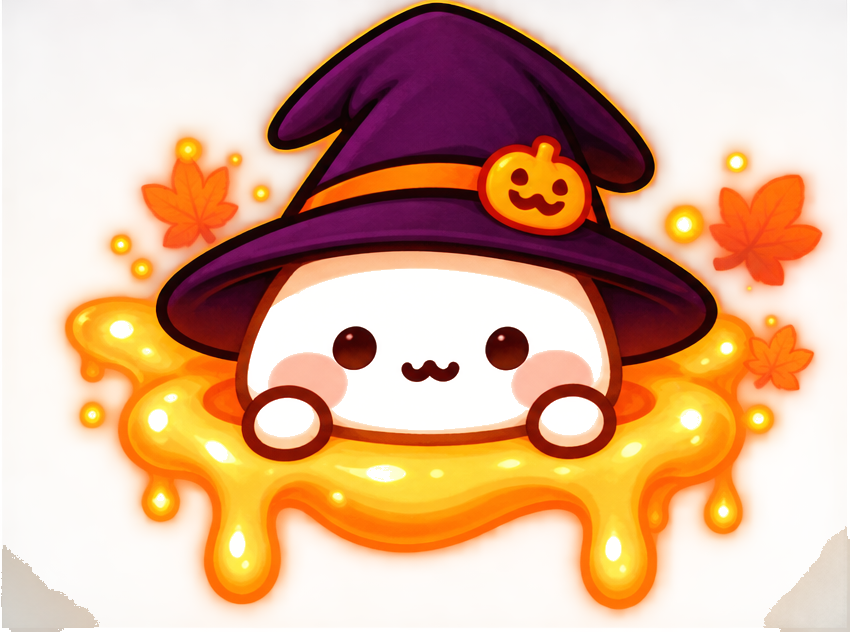
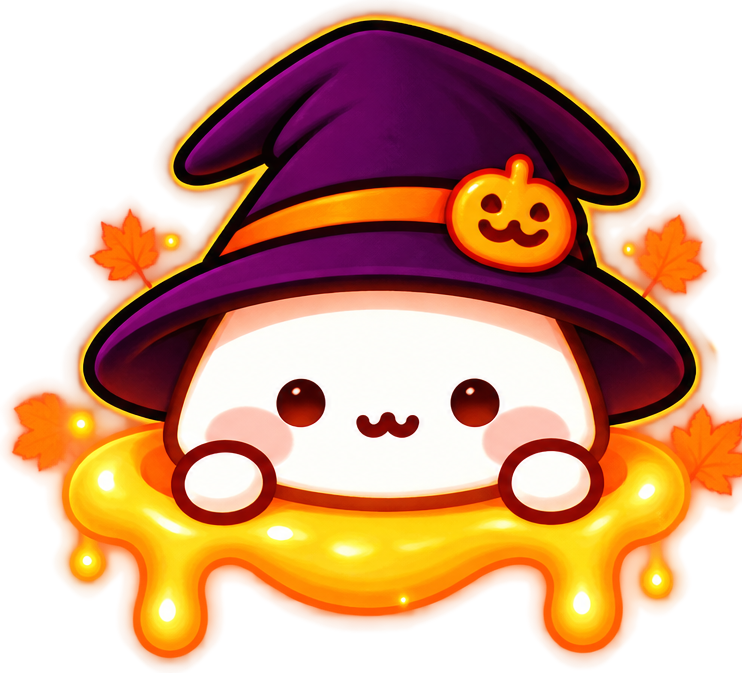
Halloween Home: ChatGPT's V6 fixed artwork, repositioned hero/streak, toned-down header. Branch only, not deployed.
Claude-Session: https://claude.ai/code/session_01YMLVrn6KTdhproNes7bh89

diff --git a/public/app.js b/public/app.js
@@ -1283,7 +1283,7 @@
         <button type="button" class="hq-ib gear" id="hhGear" aria-label="${esc(tr("Settings"))}"><svg viewBox="0 0 24 24" fill="none" stroke="currentColor" stroke-width="2" stroke-linecap="round" stroke-linejoin="round" aria-hidden="true"><circle cx="12" cy="12" r="3"/><path d="M19.4 15a1.7 1.7 0 0 0 .3 1.8l.1.1a2 2 0 1 1-2.8 2.8l-.1-.1a1.7 1.7 0 0 0-1.8-.3 1.7 1.7 0 0 0-1 1.5V21a2 2 0 1 1-4 0v-.1a1.7 1.7 0 0 0-1.1-1.5 1.7 1.7 0 0 0-1.8.3l-.1.1a2 2 0 1 1-2.8-2.8l.1-.1a1.7 1.7 0 0 0 .3-1.8 1.7 1.7 0 0 0-1.5-1H3a2 2 0 1 1 0-4h.1a1.7 1.7 0 0 0 1.5-1.1 1.7 1.7 0 0 0-.3-1.8l-.1-.1a2 2 0 1 1 2.8-2.8l.1.1a1.7 1.7 0 0 0 1.8.3H9a1.7 1.7 0 0 0 1-1.5V3a2 2 0 1 1 4 0v.1a1.7 1.7 0 0 0 1 1.5 1.7 1.7 0 0 0 1.8-.3l.1-.1a2 2 0 1 1 2.8 2.8l-.1.1a1.7 1.7 0 0 0-.3 1.8V9a1.7 1.7 0 0 0 1.5 1H21a2 2 0 1 1 0 4h-.1a1.7 1.7 0 0 0-1.5 1z"/></svg></button>
       </header>
       <section class="hq-card" aria-label="${esc(tr("This month's money"))}">
-        <img class="hq-witch" src="/hh-hero-v6.png?v=6" alt="">
+        <img class="hq-witch" src="/hh-hero-v6.png?v=8" alt="">
         <p class="hq-lbl">${esc(tr("Safe to spend"))}</p><p class="hq-context">${esc(lbl)}</p>
         <div class="hq-row">
           <div class="hq-amt ${c.left < 0 ? "neg" : ""}">${esc(w)}${cents ? `<small>.${esc(cents)}</small>` : ""}</div>
@@ -1298,7 +1298,7 @@
       </div>
       <div class="hq-h"><h2>${esc(tr("Coming up"))}</h2><button type="button" id="hhPlan">${esc(tr("See all"))} ›</button></div>
       <div class="hq-list">${items.length ? items.map(dueRow).join("") : `<div class="hq-empty"><span>${esc(RECUR.length ? tr("Nothing due soon") + " ♡" : tr("Add rent, bills and paydays once."))}</span><button type="button" id="hhAddBill">${esc(tr("Add"))}</button></div>`}</div>
-      <button type="button" class="hq-streak" id="hhStreak"><img src="/hh-streak-v6.png?v=6" alt="">${flame}<span class="hq-st"><b>${st === 1 ? esc(tr("1 day")) : st + " " + esc(tr("days"))} ${esc(tr("hop streak"))}</b><small>${esc(done ? tr("Keep it going!") : tr("Log today to hop"))} · ${esc(tr("Level"))} ${li.l}</small></span>${chev}</button>
+      <button type="button" class="hq-streak" id="hhStreak"><img src="/hh-streak-v6.png?v=8" alt="">${flame}<span class="hq-st"><b>${st === 1 ? esc(tr("1 day")) : st + " " + esc(tr("days"))} ${esc(tr("hop streak"))}</b><small>${esc(done ? tr("Keep it going!") : tr("Log today to hop"))} · ${esc(tr("Level"))} ${li.l}</small></span>${chev}</button>
       <div class="hq-h hq-latest-head"><h2>${esc(tr("Latest"))}</h2><button type="button" id="hhAll">${esc(tr("See all"))} ›</button></div>
       <div class="hq-list hq-latest-list">${recent.length ? recent.map(actRow).join("") : `<div class="hq-empty"><span>${esc(tr("Nothing yet. Tap + to add something."))}</span></div>`}</div>`;
     const q = (id) => root.querySelector("#" + id);

diff --git a/public/halloween.css b/public/halloween.css
@@ -499,7 +499,7 @@ html.hb-hh #hhHome .hq-latest-head{margin-top:20px}
    separate from live text/data. Standard Honeybun is untouched. */
 @media (max-width:500px){
   html.hb-hh #hhHome{max-width:390px!important;padding-top:calc(max(env(safe-area-inset-top,0px),var(--sat,0px)) + 4px)!important;padding-bottom:96px!important;background:linear-gradient(180deg,#130b19 0,#0b0710 100%)!important}
-  html.hb-hh #hhHome:before{content:""!important;display:block!important;position:absolute!important;z-index:0!important;left:0!important;right:0!important;top:0!important;height:188px!important;pointer-events:none!important;background:linear-gradient(180deg,rgba(13,7,18,.10),rgba(11,7,16,.72) 78%,#0b0710 100%),url('/hh-header-v6.webp?v=6') center top/100% 188px no-repeat!important;opacity:.95!important}
+  html.hb-hh #hhHome:before{content:""!important;display:block!important;position:absolute!important;z-index:0!important;left:0!important;right:0!important;top:0!important;height:188px!important;pointer-events:none!important;background:linear-gradient(180deg,rgba(13,7,18,.10),rgba(11,7,16,.72) 78%,#0b0710 100%),url('/hh-header-v6.webp?v=8') center 38%/cover no-repeat!important;opacity:.32!important}
   html.hb-hh #hhHome>*{position:relative;z-index:1}
   html.hb-hh #hhHome .hq-head{height:94px!important;margin:0 24px!important;padding-top:5px!important}
   html.hb-hh #hhHome .hq-brand h1{font-size:27px!important;line-height:30px!important}
@@ -555,3 +555,7 @@ html.hb-hh #hhHome .hq-latest-head{margin-top:20px}
   #hhHome .hh-bottom-nav { left:18px !important; right:18px !important; width:auto !important; bottom:10px !important; }
 }
 
+
+/* V6 fixed artwork: placement measured from the authoritative reference (390px wide) */
+html.hb-hh #hhHome .hq-witch{position:absolute!important;right:24px!important;top:-112px!important;bottom:auto!important;left:auto!important;width:164px!important;height:auto!important;max-height:none!important;object-fit:contain!important;z-index:6!important;filter:drop-shadow(0 6px 8px rgba(0,0,0,.45))!important}
+html.hb-hh #hhHome .hq-streak>img{position:absolute!important;left:4px!important;bottom:-4px!important;top:auto!important;height:86px!important;width:auto!important;max-height:none!important;max-width:none!important;object-fit:contain!important;filter:drop-shadow(0 4px 6px rgba(0,0,0,.4))!important}

diff --git a/public/sw.js b/public/sw.js
@@ -1,6 +1,6 @@
 // Honeybun service worker: makes the app open offline.
 // Pages and code are fetched fresh when online (so updates show right away) and served from cache when offline.
-const CACHE = "honeybun-v80";
+const CACHE = "honeybun-v82";
 const SHELL = ["/", "/witch-load.webp", "/icon-192-halloween.png", "/index.html", "/app.js", "/i18n.js", "/boot.js", "/theme.js", "/halloween.js", "/halloween.css", "/icon-192.png", "/apple-touch-icon.png", "/favicon-32.png", "/manifest.webmanifest"];
 
 self.addEventListener("install", (e) => {
